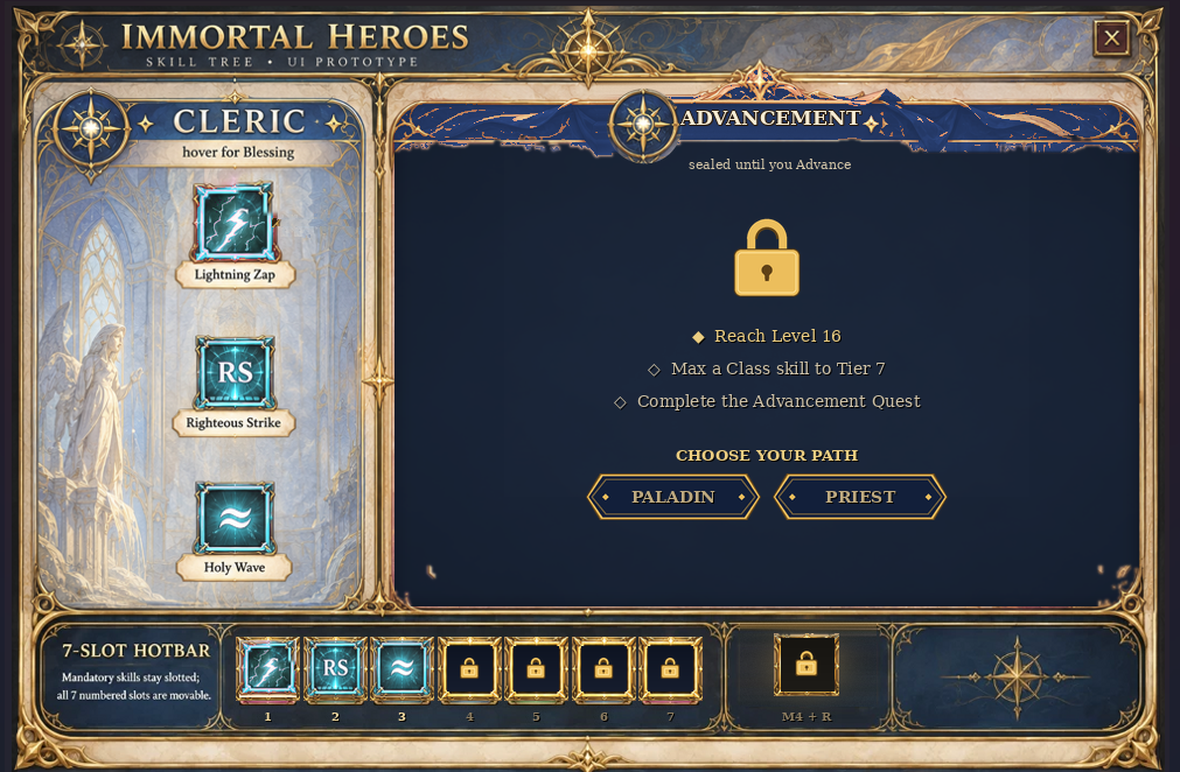
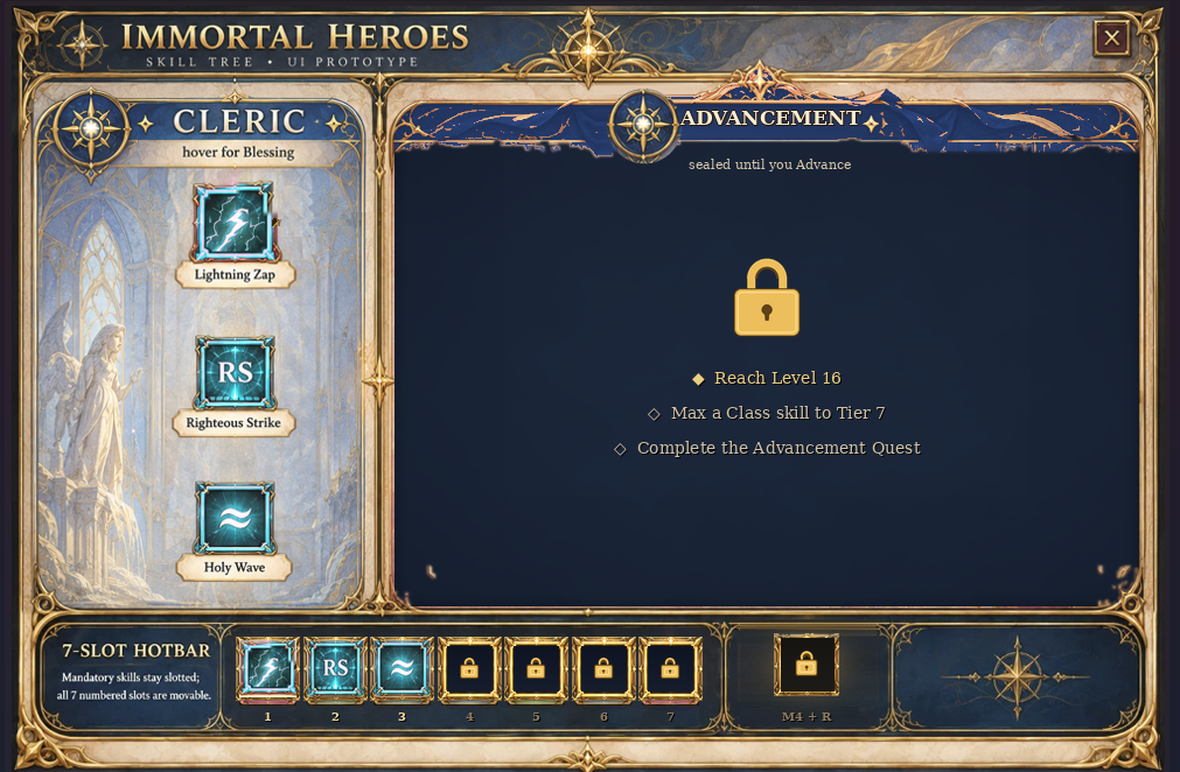
B1 preview: drop path choice, re-center seal + checklist
Claude-Session: https://claude.ai/code/session_01XpdCpqX2P5cHTKtzw8jsN7

Changed region(s): [[0.4881, 0.2798, 0.7932, 0.6839], [0.7932, 0.6218, 0.8237, 0.6528]]

diff --git a/tools/render_states.py b/tools/render_states.py
@@ -451,19 +451,15 @@ def state_class_only_sealed():
     img = class_only_common()
     img = neutral_ac_panel(img, navy_texture((AC_BODY[2] - AC_BODY[0], AC_BODY[3] - AC_BODY[1]), 7), "sealed until you Advance")
     d = ImageDraw.Draw(img)
-    img.alpha_composite(padlock(78), (657 - 39, 180))
+    # Padlock + requirement checklist, centered as one group in the panel body (y 152..520).
+    img.alpha_composite(padlock(78), (657 - 39, 214))
     reqs = [("Reach Level 16", True), ("Max a Class skill to Tier 7", False), ("Complete the Advancement Quest", False)]
-    y = 280
+    y = 316
     for text, done in reqs:
         mark = "\u25c6" if done else "\u25c7"
         col = (236, 206, 130) if done else (206, 194, 168)
         text_c(d, 657, y, mark + "  " + text, font(14, False), col, shadow=(0, 0, 0))
-        y += 28
-    text_c(d, 657, 382, "CHOOSE YOUR PATH", font(13), (236, 206, 130), shadow=(0, 0, 0))
-    pl = plaque(150, 40)
-    for cx, name in ((577, "PALADIN"), (737, "PRIEST")):
-        img.alpha_composite(pl, (cx - 75, 406))
-        text_c(d, cx, 417, name, font(14), (190, 170, 128), shadow=(0, 0, 0))
+        y += 30
     save(img, "STATE_B1_ClassOnly_Sealed.png")
 
 
